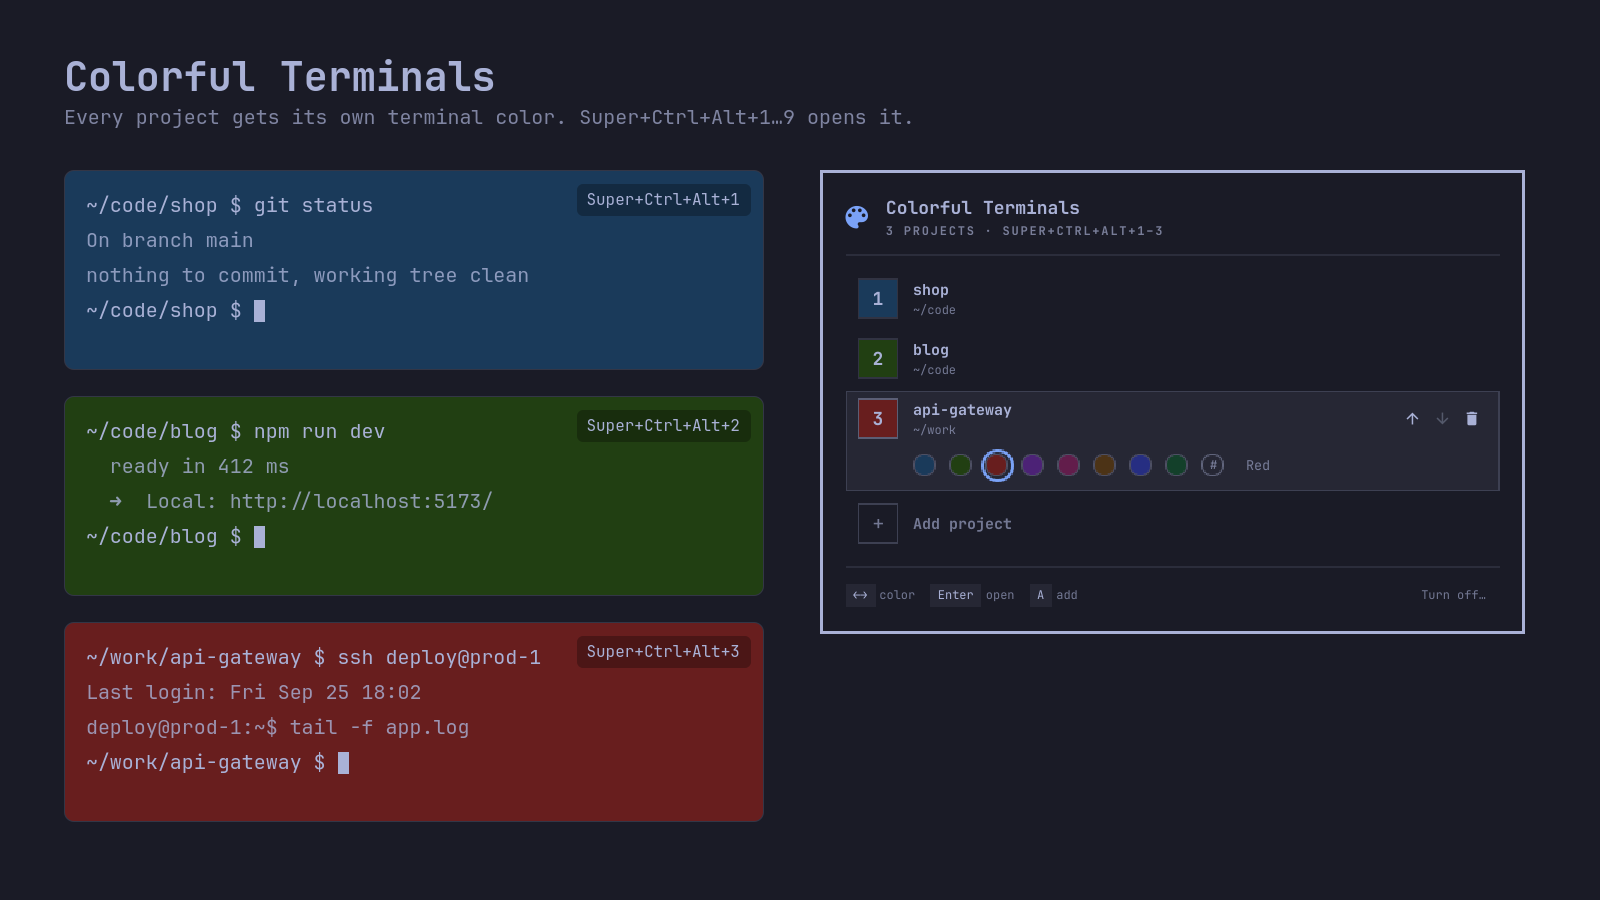
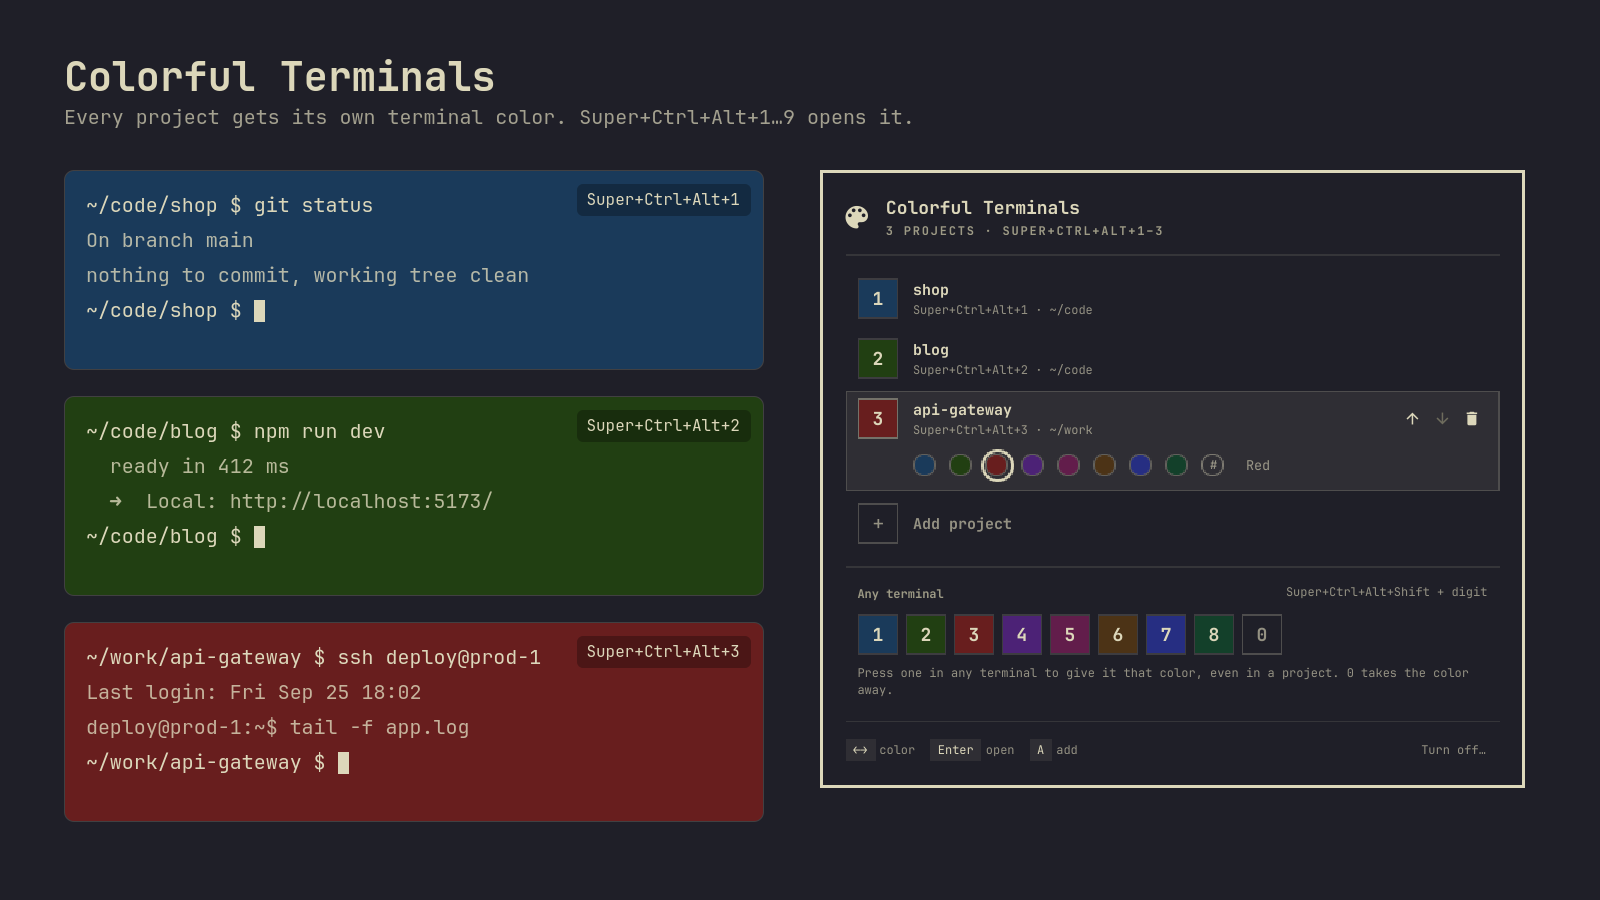
Hooks send the color at every prompt; keys spelled out in rows and in Super+K
The bash, zsh and fish hooks send OSC 11 again at every prompt (not inside
tmux), so a terminal that reloaded its config on a theme switch is back in
its color at the next prompt. The hook tests compare the distinct colors and
check the re-send in every shell.

Under each project's name the panel shows its key, "Super+Ctrl+Alt+3 · ~/code".
Hyprland descriptions have no comma, which cut them in Omarchy's keybindings
list, and the color keys name their color ("Terminal color 1: Blue"), the
light palette on a light theme and the hex when the key was changed;
keys.test.lua checks the names against the helper's palette. Version 0.6.1.

diff --git a/tests/model.test.js b/tests/model.test.js
@@ -103,6 +103,9 @@ eq("name of", "shop", M.nameOf("~/code/shop/"))
 eq("parent of", "~/code", M.parentOf("~/code/shop"))
 eq("parent of home project", "~", M.parentOf("~/shop"))
 eq("parent of root folder", "/", M.parentOf("/srv"))
+eq("row subtitle: key, then the folder", "Super+Ctrl+Alt+3 · ~/code", M.rowSubtitle(3, "~/code/shop"))
+eq("row subtitle: home project", "Super+Ctrl+Alt+1 · ~", M.rowSubtitle(1, "~/shop"))
+eq("row subtitle: no key after 9", "~/code", M.rowSubtitle(10, "~/code/shop"))
 eq("summary", "4 projects · Super+Ctrl+Alt+1–4", M.summary(4))
 eq("summary for one", "1 project · Super+Ctrl+Alt+1", M.summary(1))
 eq("summary caps keys at 9", "12 projects · Super+Ctrl+Alt+1–9", M.summary(12))

diff --git a/Model.js b/Model.js
@@ -158,6 +158,14 @@ function parentOf(path) {
   return i === 0 ? "/" : p.substr(0, i)
 }
 
+// Under a project's name: its key, then the folder it sits in. The key is
+// what the row is for, so it is spelled out here and not only in the header.
+function rowSubtitle(n, path) {
+  var parent = parentOf(path)
+  if (n < 1 || n > MAX_KEYS) return parent
+  return parent ? keyLabel(n) + " · " + parent : keyLabel(n)
+}
+
 // Text typed on a Russian layout, read as the Latin keys under the same
 // fingers: "Ё." is "~/" and "ырщз" is "shop". Other text is returned as is.
 var RU = "йцукенгшщзхъфывапролджэячсмитьбюё"

diff --git a/ProjectRow.qml b/ProjectRow.qml
@@ -113,7 +113,7 @@ CursorSurface {
           width: parent.width
           elide: Text.ElideMiddle
           text: row.exists
-            ? Model.plain(Model.parentOf(row.path), 160)
+            ? Model.plain(Model.rowSubtitle(row.n, row.path), 180)
             : "Folder not found · " + Model.plain(row.path, 160)
           color: row.exists ? row.view.dim : row.view.urgent
           font.family: row.view.fontFamily

diff --git a/README.md b/README.md
@@ -42,6 +42,8 @@ To update: `omarchy plugin update andreiyurik.colorful-terminals`, then `omarchy
 | `Super+Ctrl+Alt+Shift+1` … `Super+Ctrl+Alt+Shift+8` | Give the terminal you are in color 1…8 |
 | `Super+Ctrl+Alt+Shift+0` | Take that color away: back to the project or theme color |
 
+Omarchy's own keybindings list (`Super+K`) shows them all, each project key with its folder name and each color key with its color.
+
 A color from `Super+Ctrl+Alt+Shift` belongs to that one terminal. It stays when you `cd` into a project and goes away with `Super+Ctrl+Alt+Shift+0` or when the terminal closes. It is always the terminal you are in, even when one terminal program draws all your windows, because the shell in that terminal does the coloring: Hyprland passes the key to the focused window. So it works at a shell prompt; if a program is running there, a notification says so and nothing changes.
 
 In the panel:
@@ -119,7 +121,7 @@ Your project list and the backups stay in `~/.config/colorful-terminals/`. Delet
 
 ## Limitations
 
-- **The color changes at the next prompt.** It switches when a command finishes and the shell draws its prompt, not in the middle of a running script.
+- **The color changes at the next prompt.** It switches when a command finishes and the shell draws its prompt, not in the middle of a running script. The same goes for a theme switch: a terminal that reloads its config is back in its color at the next prompt.
 - **bash, zsh and fish**, in terminals that support the standard OSC 11 background code: Ghostty, Kitty, Alacritty and foot all do. Inside tmux the tmux pane takes the color instead. Not inside zellij.
 - **Terminals opened before you turn it on** get colors once you open them again; their shell has not loaded the hook yet.
 - **The `Super+Ctrl+Alt+Shift` keys work at a shell prompt.** While a program runs in the terminal (an editor, `btop`, `ssh`), the shell cannot answer, so the color stays and a notification says why.
